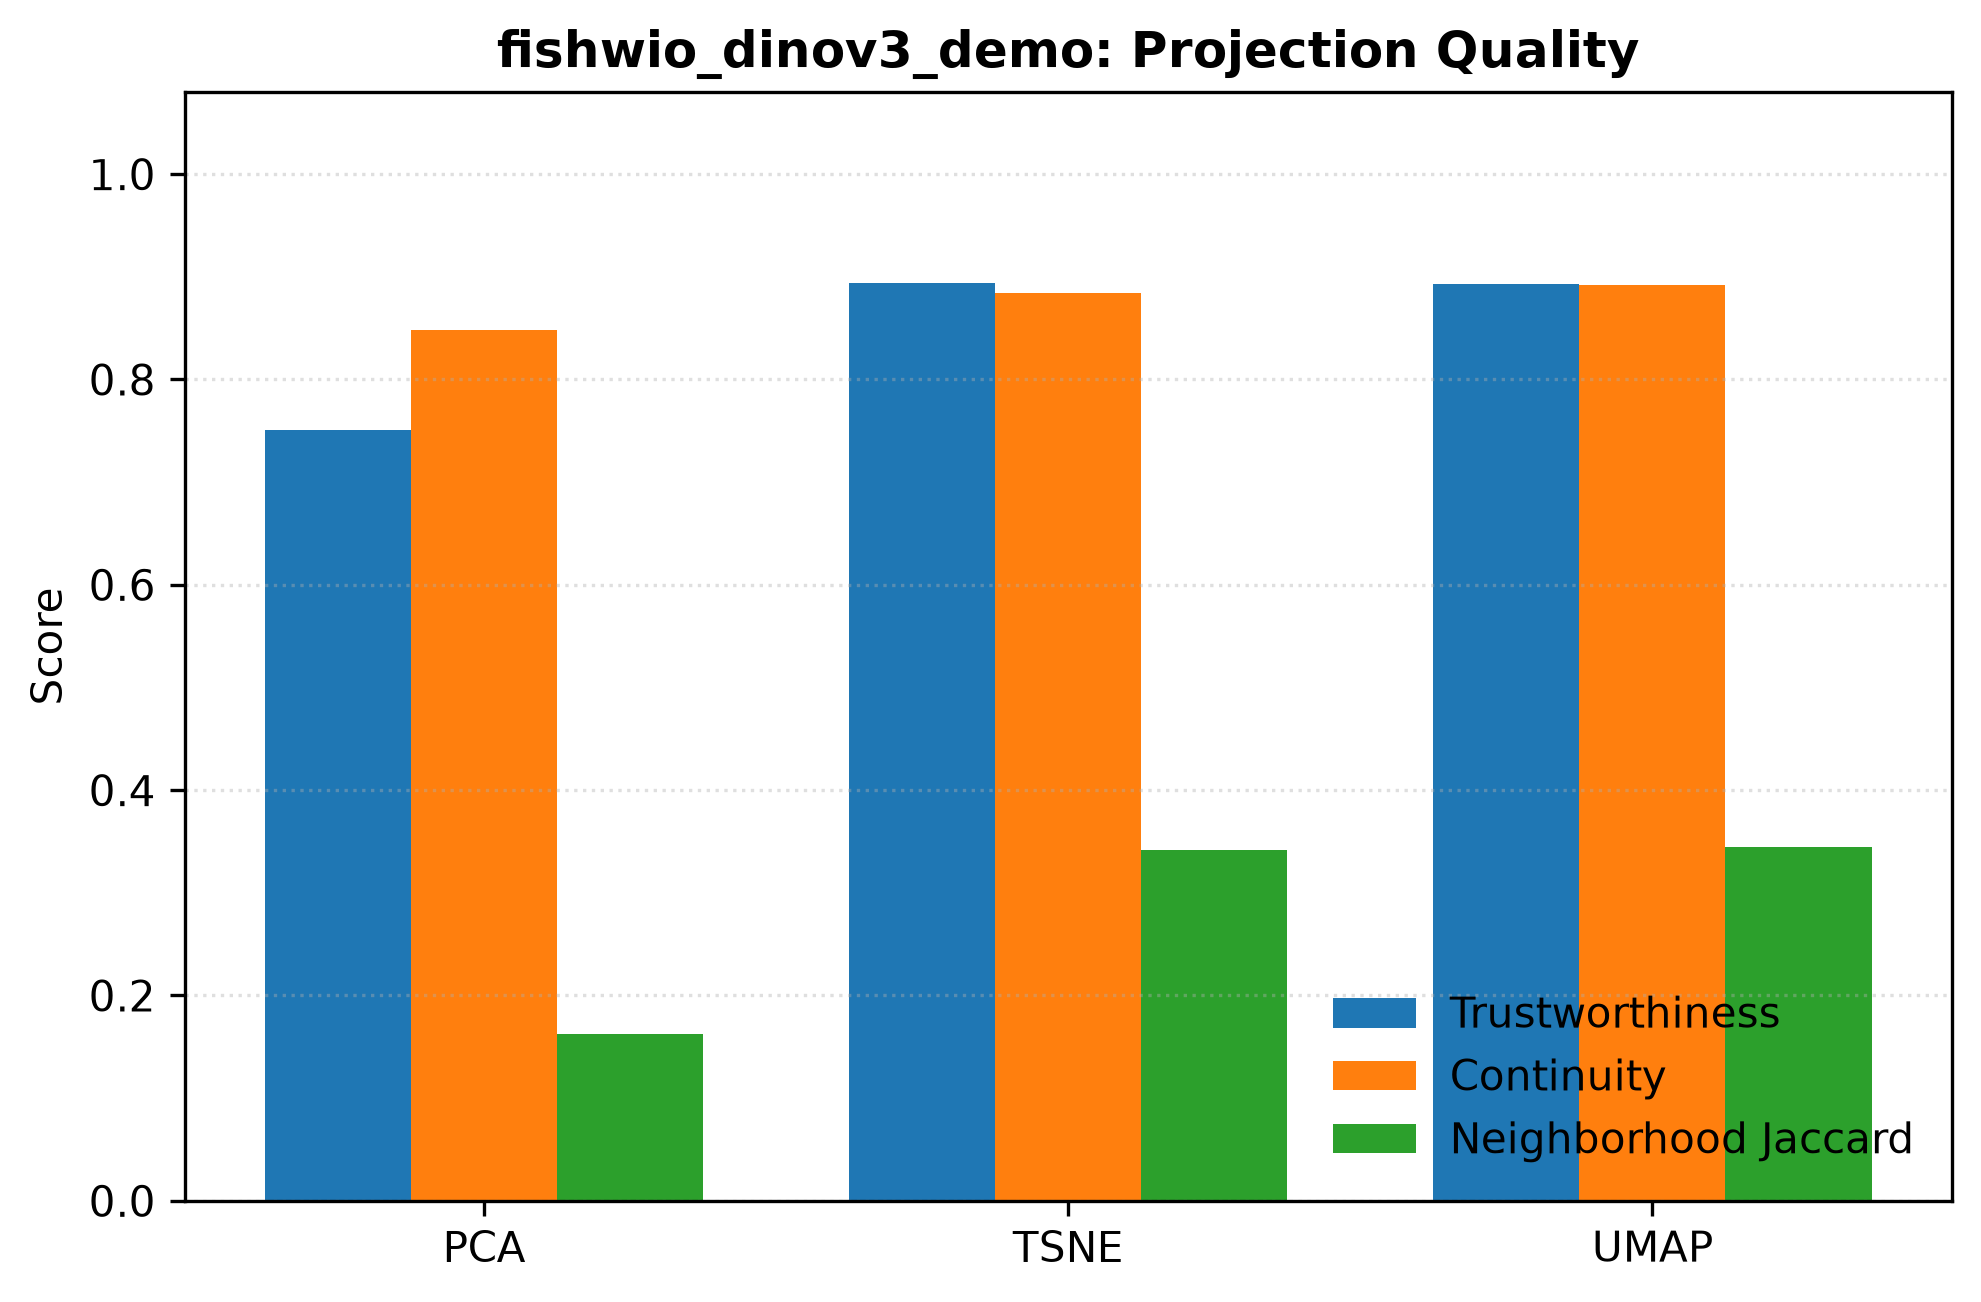
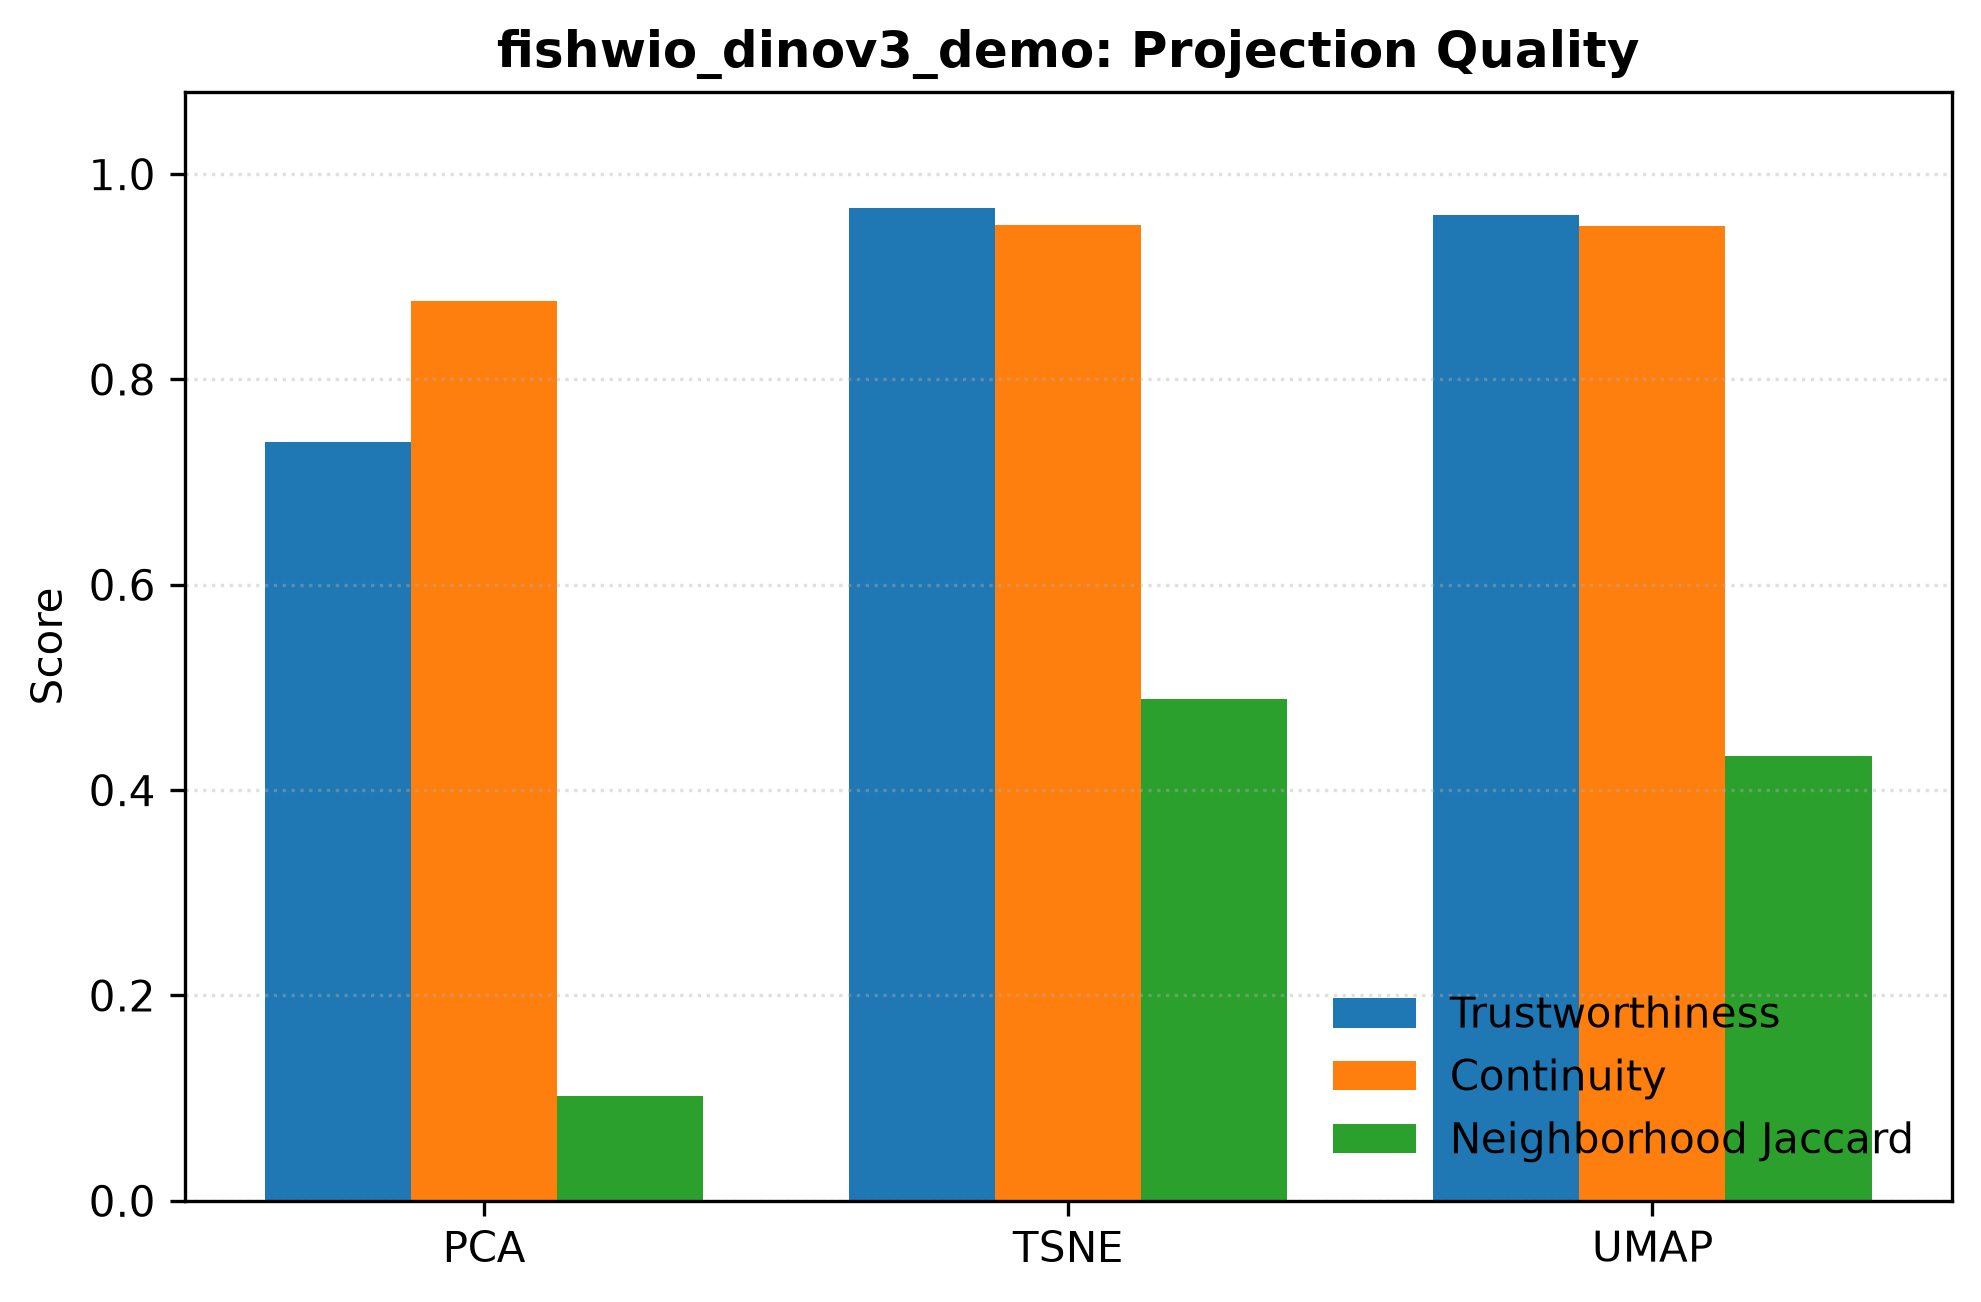
Scope video cap per species, add class size filters, and update DINOv3 demo results

diff --git a/src/fish_clustering/data/sampling.py b/src/fish_clustering/data/sampling.py
@@ -12,6 +12,14 @@ def _is_missing(value: object) -> bool:
     return isinstance(value, str) and value.strip() == ""
 
 
+def _resolve_class_key(dataset: object, species: object, label_raw: object, idx: int) -> str:
+    if not _is_missing(species):
+        return f"species::{str(species).strip()}"
+    if not _is_missing(label_raw):
+        return f"{dataset}::label::{str(label_raw).strip()}"
+    return f"row::{idx}"
+
+
 def _sample_by_group(
     df: pd.DataFrame,
     group_keys: pd.Series,
@@ -44,7 +52,7 @@ def cap_crops_per_video(
     max_per_video: int | None,
     seed: int = 42,
 ) -> pd.DataFrame:
-    """Cap crops drawn from any single video sequence to curb frame duplicates."""
+    """Cap crops per (dataset, video_id, class) so multi-species clips stay balanced."""
     if max_per_video is None:
         return df.copy()
     if max_per_video <= 0:
@@ -52,10 +60,16 @@ def cap_crops_per_video(
     if df.empty:
         return df.copy()
 
-    keys = [
-        f"{ds}::vid::{vid}" if not _is_missing(vid) else f"row::{idx}"
-        for idx, (ds, vid) in enumerate(zip(df["dataset"], df["video_id"]))
-    ]
+    keys: list[str] = []
+    for idx, (ds, vid, sp, raw_lbl) in enumerate(
+        zip(df["dataset"], df["video_id"], df["species"], df["label_raw"])
+    ):
+        if _is_missing(vid):
+            keys.append(f"row::{idx}")
+        else:
+            cls_key = _resolve_class_key(ds, sp, raw_lbl, idx)
+            keys.append(f"{ds}::vid::{vid}::{cls_key}")
+
     return _sample_by_group(df, pd.Series(keys, index=df.index), max_per_video, seed)
 
 
@@ -72,18 +86,66 @@ def cap_images_per_species(
     if df.empty:
         return df.copy()
 
-    keys: list[str] = []
-    for idx, (ds, sp, raw_lbl) in enumerate(
-        zip(df["dataset"], df["species"], df["label_raw"])
-    ):
-        if not _is_missing(sp):
-            keys.append(f"species::{sp}")
-        elif not _is_missing(raw_lbl):
-            keys.append(f"{ds}::label::{raw_lbl}")
-        else:
-            keys.append(f"row::{idx}")
-
+    keys = [
+        _resolve_class_key(ds, sp, raw_lbl, idx)
+        for idx, (ds, sp, raw_lbl) in enumerate(
+            zip(df["dataset"], df["species"], df["label_raw"])
+        )
+    ]
     return _sample_by_group(df, pd.Series(keys, index=df.index), max_per_species, seed)
+
+
+def filter_min_images_per_species(
+    df: pd.DataFrame,
+    min_per_species: int | None,
+) -> pd.DataFrame:
+    """Drop rare classes having fewer than min_per_species rows."""
+    if min_per_species is None:
+        return df.copy()
+    if min_per_species <= 0:
+        raise ValueError("min_per_species must be positive when provided.")
+    if df.empty:
+        return df.copy()
+
+    keys = pd.Series(
+        [
+            _resolve_class_key(ds, sp, raw_lbl, idx)
+            for idx, (ds, sp, raw_lbl) in enumerate(
+                zip(df["dataset"], df["species"], df["label_raw"])
+            )
+        ],
+        index=df.index,
+    )
+    counts = keys.value_counts()
+    keep_keys = set(counts[counts >= min_per_species].index)
+    return df.loc[keys.isin(keep_keys)].reset_index(drop=True)
+
+
+def filter_top_n_species(
+    df: pd.DataFrame,
+    top_n: int | None,
+) -> pd.DataFrame:
+    """Retain rows belonging to the top_n most frequent species/classes."""
+    if top_n is None:
+        return df.copy()
+    if top_n <= 0:
+        raise ValueError("top_n must be positive when provided.")
+    if df.empty:
+        return df.copy()
+
+    keys = pd.Series(
+        [
+            _resolve_class_key(ds, sp, raw_lbl, idx)
+            for idx, (ds, sp, raw_lbl) in enumerate(
+                zip(df["dataset"], df["species"], df["label_raw"])
+            )
+        ],
+        index=df.index,
+    )
+    counts = keys.value_counts()
+    ranked = sorted(counts.items(), key=lambda item: (-int(item[1]), str(item[0])))
+    keep_keys = {k for k, _ in ranked[:top_n]}
+    return df.loc[keys.isin(keep_keys)].reset_index(drop=True)
 
 
 def filter_species_level(df: pd.DataFrame) -> pd.DataFrame:
@@ -116,15 +178,19 @@ def apply_sampling_filters(
     *,
     species_level_only: bool = False,
     max_crops_per_video: int | None = None,
+    min_images_per_species: int | None = None,
+    top_n_species: int | None = None,
     max_images_per_species: int | None = None,
     shared_species_min_datasets: int | None = None,
     seed: int = 42,
 ) -> pd.DataFrame:
-    """Apply taxonomic, duplicate-video, and class-cap filters in standard order."""
+    """Apply taxonomic, duplicate-video, class-support, and cap filters in order."""
     filtered = df.copy()
     if species_level_only:
         filtered = filter_species_level(filtered)
     filtered = cap_crops_per_video(filtered, max_crops_per_video, seed=seed)
+    filtered = filter_min_images_per_species(filtered, min_images_per_species)
+    filtered = filter_top_n_species(filtered, top_n_species)
     filtered = cap_images_per_species(filtered, max_images_per_species, seed=seed)
     if shared_species_min_datasets is not None:
         filtered = filter_shared_species(filtered, min_datasets=shared_species_min_datasets)

diff --git a/tests/test_data.py b/tests/test_data.py
@@ -16,8 +16,10 @@ from fish_clustering.data import (
     cap_images_per_species,
     crop_bbox,
     equalize_resolution,
+    filter_min_images_per_species,
     filter_shared_species,
     filter_species_level,
+    filter_top_n_species,
     load_image_sample,
 )
 
@@ -189,6 +191,30 @@ def test_sampling_caps_and_filters() -> None:
         seed=42,
     )
     assert len(combined) <= 3
+
+    # Multi-species video_id preserves up to max_per_video per species inside the same clip.
+    multi_sp = pd.DataFrame(
+        [
+            {"image_id": f"a_{i}", "dataset": "fishwio", "species": "Species A", "label_raw": "Species A", "video_id": "clip1", "is_species_level": True}
+            for i in range(4)
+        ]
+        + [
+            {"image_id": f"b_{i}", "dataset": "fishwio", "species": "Species B", "label_raw": "Species B", "video_id": "clip1", "is_species_level": True}
+            for i in range(3)
+        ]
+        + [
+            {"image_id": "c_0", "dataset": "fishwio", "species": "Species C", "label_raw": "Species C", "video_id": "clip1", "is_species_level": True}
+        ]
+    )
+    multi_capped = cap_crops_per_video(multi_sp, max_per_video=2, seed=42)
+    assert len(multi_capped) == 5
+    assert set(multi_capped["species"]) == {"Species A", "Species B", "Species C"}
+
+    min_filtered = filter_min_images_per_species(multi_sp, min_per_species=3)
+    assert set(min_filtered["species"]) == {"Species A", "Species B"}
+
+    top1 = filter_top_n_species(multi_sp, top_n=1)
+    assert set(top1["species"]) == {"Species A"}
 
 
 def test_preprocessing_bbox_mask_and_equalize(tmp_path: Path) -> None:

diff --git a/src/fish_clustering/config.py b/src/fish_clustering/config.py
@@ -41,6 +41,8 @@ class DataConfig:
     datasets: list[str]
     max_crops_per_video: int | None = None
     max_images_per_species: int | None = None
+    min_images_per_species: int | None = None
+    top_n_species: int | None = None
     use_foreground_mask: bool = False
     equalize_resolution: int | None = None
 
@@ -53,6 +55,10 @@ class DataConfig:
             raise ValueError("data.max_crops_per_video must be positive or null.")
         if self.max_images_per_species is not None and self.max_images_per_species <= 0:
             raise ValueError("data.max_images_per_species must be positive or null.")
+        if self.min_images_per_species is not None and self.min_images_per_species <= 0:
+            raise ValueError("data.min_images_per_species must be positive or null.")
+        if self.top_n_species is not None and self.top_n_species <= 0:
+            raise ValueError("data.top_n_species must be positive or null.")
         if isinstance(self.equalize_resolution, bool):
             raise ValueError("data.equalize_resolution must be an integer pixel size or null.")
         if self.equalize_resolution is not None and self.equalize_resolution <= 0:

diff --git a/tests/test_config.py b/tests/test_config.py
@@ -21,11 +21,15 @@ def test_load_default_and_smoke_configs() -> None:
     assert smoke_cfg.experiment.name == "frgt_smoke_test"
     assert smoke_cfg.data.datasets == ["frgt"]
     assert smoke_cfg.data.max_images_per_species == 20
+    assert smoke_cfg.data.min_images_per_species is None
+    assert smoke_cfg.data.top_n_species is None
     assert smoke_cfg.data.manifest_path == Path("data/manifests/smoke_frgt.csv")
 
     fishwio_cfg = load_config(REPO_ROOT / "configs" / "fishwio_dinov3_demo.yaml")
     assert fishwio_cfg.experiment.name == "fishwio_dinov3_demo"
     assert fishwio_cfg.data.datasets == ["fishwio"]
+    assert fishwio_cfg.data.min_images_per_species == 20
+    assert fishwio_cfg.data.top_n_species == 30
     assert fishwio_cfg.model.backbone == "dinov3_vitb16"
 
 

diff --git a/src/fish_clustering/data/__init__.py b/src/fish_clustering/data/__init__.py
@@ -15,8 +15,10 @@ from fish_clustering.data.sampling import (
     apply_sampling_filters,
     cap_crops_per_video,
     cap_images_per_species,
+    filter_min_images_per_species,
     filter_shared_species,
     filter_species_level,
+    filter_top_n_species,
 )
 
 __all__ = [
@@ -29,7 +31,9 @@ __all__ = [
     "cap_images_per_species",
     "crop_bbox",
     "equalize_resolution",
+    "filter_min_images_per_species",
     "filter_shared_species",
     "filter_species_level",
+    "filter_top_n_species",
     "load_image_sample",
 ]

diff --git a/scripts/run_pipeline.py b/scripts/run_pipeline.py
@@ -158,6 +158,8 @@ def run_experiment(
     manifest = apply_sampling_filters(
         raw_manifest,
         max_crops_per_video=cfg.data.max_crops_per_video,
+        min_images_per_species=cfg.data.min_images_per_species,
+        top_n_species=cfg.data.top_n_species,
         max_images_per_species=cfg.data.max_images_per_species,
         seed=cfg.experiment.seeds[0],
     )

diff --git a/docs/metrics_and_methods.md b/docs/metrics_and_methods.md
@@ -58,7 +58,7 @@ All vision backbones run strictly frozen in evaluation mode (`torch.inference_mo
 2. **openTSNE (`fit_tsne`):** uses `openTSNE.TSNE` with `metric="cosine"` and `initialization="pca"`. Unlike scikit-learn's `TSNE`, `openTSNE` returns a fitted `TSNEEmbedding` object supporting **out-of-sample projection** (`transform_new_points`), letting held-out `SCHUFI` or `HODOR` Baltic Sea crops be placed into a fixed open-ocean reference map without distorting reference clusters.
 3. **UMAP (`fit_umap`):** constructs a fuzzy simplicial neighborhood graph (`metric="cosine"`, `umap_n_neighbors`, `umap_min_dist`) and supports `.transform()` for new points.
 
-Below is an actual `UMAP` thumbnail atlas from our `FishWIO` + frozen `DINOv3 ViT-B/16` demo (`369` wild reef fish images across `95` species), followed by the corresponding projection-quality comparison across `PCA`, `t-SNE`, and `UMAP`:
+Below is an actual `UMAP` thumbnail atlas from our `FishWIO` + frozen `DINOv3 ViT-B/16` demo (`900` wild reef fish images across `30` species), followed by the corresponding projection-quality comparison across `PCA`, `t-SNE`, and `UMAP`:
 
 ![FishWIO UMAP Thumbnail Atlas](assets/fishwio_thumbnails_umap.png)
 
@@ -173,10 +173,11 @@ All RQ2 metrics operate **directly on the L2-normalized high-D embeddings** (`me
 
 ## 4. Real Walkthrough: `FishWIO` with Frozen `DINOv3 ViT-B/16`
 
-Running [`configs/fishwio_dinov3_demo.yaml`](../configs/fishwio_dinov3_demo.yaml) (`369` wild reef fish images across `95` classes, capped at `3` crops per video and `15` images per species, `768-D` `facebook/dinov3-vitb16-pretrain-lvd1689m`, `cls` pooling) gives concrete intuition for how these metrics read together:
+Running [`configs/fishwio_dinov3_demo.yaml`](../configs/fishwio_dinov3_demo.yaml) (`900` wild reef fish images across `30` species, `20-30` images per species, `max_crops_per_video: 5` per species, `768-D` `facebook/dinov3-vitb16-pretrain-lvd1689m`, `cls` pooling) illustrates how all metric groups behave together:
 
 1. **Projection Quality (`projection_metrics.csv`):**
-   - `t-SNE` (`Trust=0.894`, `Cont=0.885`, `Jaccard=0.342`) and `UMAP` (`Trust=0.893`, `Cont=0.892`, `Jaccard=0.345`) beat linear `PCA` (`Trust=0.751`, `Cont=0.849`, `Jaccard=0.162`). Linear PCA drops ~14 points in Trustworthiness because `95` fine-grained reef species do not lie in a 2-D plane.
+   - `t-SNE` (`Trust=0.967`, `Cont=0.950`, `Jaccard=0.488`) and `UMAP` (`Trust=0.960`, `Cont=0.950`, `Jaccard=0.433`) strongly outperform linear `PCA` (`Trust=0.739`, `Cont=0.876`, `Jaccard=0.102`).
 2. **High-D vs. 2-D Clustering (`clustering_metrics.csv`):**
-   - `High-D Ward` achieves the highest species alignment (`V-Measure = 0.861`, `Homogeneity = 0.879`, `Completeness = 0.844`, `ARI = 0.479`, `AMI = 0.617`), closely tracked by `t-SNE Ward` (`V-Measure = 0.855`, `ARI = 0.452`) and `UMAP Ward` (`V-Measure = 0.827`, `ARI = 0.388`), while `PCA Ward` drops sharply (`V-Measure = 0.687`, `ARI = 0.060`).
-   - Meanwhile, `HDBSCAN` with `min_cluster_size=10` marks `87%` of points as noise in `768-D` because Euclidean density drops in 768 dimensions and many `FishWIO` species have only 1 to 6 samples after video capping; in `UMAP`, `HDBSCAN` gains high geometric silhouette (`0.630`) and `DBCV` (`0.650`) by merging coarse shapes into 2 broad clusters, yielding `V-Measure = 0.144`. This shows why **comparing label-free scores (`Silhouette`/`DBCV`) alongside supervised agreement (`V-Measure`/`ARI`/`AMI`) and multiple algorithms** is essential for wild marine data.
+   - With `20-30` samples per species, `UMAP HDBSCAN` automatically discovers `31` clusters out of `30` species (`V-Measure = 0.837`, `Homogeneity = 0.835`, `Completeness = 0.840`, `ARI = 0.646`, `AMI = 0.805`, `DBCV = 0.643`), and `t-SNE HDBSCAN` discovers `22` clusters (`V-Measure = 0.776`, `AMI = 0.744`).
+   - Fixed-`k` methods peak on `UMAP Ward` (`V-Measure = 0.870`, `ARI = 0.747`, `AMI = 0.846`, `Silhouette = 0.670`), `UMAP k-means` (`V-Measure = 0.866`, `ARI = 0.742`), and `High-D Ward` (`V-Measure = 0.809`, `ARI = 0.600`, `AMI = 0.773`), whereas `PCA Ward` lags behind (`V-Measure = 0.438`, `ARI = 0.130`).
+   - Notice `High-D HDBSCAN` (`min_cluster_size=10`) still marks `61.8%` of 768-D embeddings as noise (`V-Measure = 0.319`), confirming why Markoff et al. (2026) and this thesis compare density clustering on low-D `t-SNE`/`UMAP` embeddings against hierarchical clustering (`Ward`) in high dimensions.
